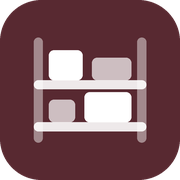
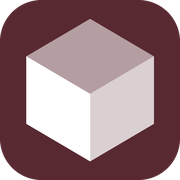
Marka işaretini izometrik küple kurumsallaştır
Önceki işaret yuvarlak kare bir kap içinde raf ve koli çizimiydi; uygulama
ikonu karakteri taşıdığı için kurumsal bir kimlikten çok bir mobil uygulama
rozeti gibi okunuyordu. Yerine, bir depo birimini (koli/palet) temsil eden
izometrik küp geldi: tek renkle çalışıp yalnızca yüz opaklıkları değiştiği için
16 piksellik favicon boyutunda da, kurumsal evrakta da bozulmadan kullanılıyor.

İşaretin rengi artık temadan geliyor; koyu temada marka rengi zemine karşı
okunmadığı için açık kontrast rengine geçiyor. Kelime logosunda işaret ile yazı
arasına ince bir ayraç kondu, WMS'in harf aralığı açıldı ve alt başlık daha
ince, daha seyrek bir tipografiye alındı.

Favicon, PWA ikonları ve apple-touch-icon yeni işaretle yeniden üretildi; bu
dosyalarda küp, sekmede ve uygulama listesinde okunur kalsın diye marka rengi
zemin üzerinde açık renkle çiziliyor.

diff --git a/src/components/Brand/BrandLogo.jsx b/src/components/Brand/BrandLogo.jsx
@@ -1,4 +1,4 @@
-import { Box, Stack, Typography } from '@mui/material'
+import { Box, Stack, Typography, useTheme } from '@mui/material'
 import BRAND from '../../config/brand'
 import BrandMark from './BrandMark'
 
@@ -9,6 +9,10 @@ import BrandMark from './BrandMark'
  * variant: 'full' isaret + yazi, 'mark' yalnizca isaret.
  */
 const BrandLogo = ({ variant = 'full', size = 40, showTagline = true, sx }) => {
+  const theme = useTheme()
+  const isDark = theme.palette.mode === 'dark'
+  const nameColor = isDark ? theme.palette.secondary.contrastText : theme.palette.primary.main
+
   if (BRAND.logoUrl) {
     return <Box component="img" src={BRAND.logoUrl} alt={BRAND.name} sx={{ height: size, width: 'auto', maxWidth: '100%', ...sx }} />
   }
@@ -21,35 +25,51 @@ const BrandLogo = ({ variant = 'full', size = 40, showTagline = true, sx }) => {
     )
   }
 
+  const withTagline = showTagline && Boolean(BRAND.tagline)
+
   return (
-    <Stack direction={'row'} alignItems={'center'} spacing={1.5} sx={sx}>
+    <Stack direction={'row'} alignItems={'center'} spacing={1.25} sx={sx}>
       <BrandMark size={size} />
+
+      {/* Isaret ile yaziyi ayiran ince kural: kilidi kurumsal bir butun yapar. */}
+      {withTagline && (
+        <Box
+          sx={{
+            width: '1px',
+            height: size * 0.72,
+            backgroundColor: isDark ? theme.palette.secondary.light : theme.palette.divider,
+            flexShrink: 0,
+          }}
+        />
+      )}
+
       <Box>
         <Typography
           component="span"
           sx={{
             display: 'block',
-            fontSize: size * 0.62,
-            lineHeight: 1.1,
+            fontSize: size * 0.58,
+            lineHeight: 1,
             fontWeight: 700,
-            letterSpacing: '0.08em',
-            color: 'primary.main',
+            letterSpacing: '0.1em',
+            color: nameColor,
           }}
         >
           {BRAND.name}
         </Typography>
-        {showTagline && BRAND.tagline && (
+        {withTagline && (
           <Typography
             component="span"
             sx={{
               display: 'block',
-              fontSize: Math.max(size * 0.22, 10),
+              fontSize: Math.max(size * 0.2, 9.5),
               lineHeight: 1.3,
               fontWeight: 500,
-              letterSpacing: '0.14em',
+              letterSpacing: '0.19em',
               textTransform: 'uppercase',
               color: 'text.secondary',
               whiteSpace: 'nowrap',
+              marginTop: '4px',
             }}
           >
             {BRAND.tagline}

diff --git a/src/components/Brand/BrandMark.jsx b/src/components/Brand/BrandMark.jsx
@@ -1,26 +1,25 @@
 import { useTheme } from '@mui/material'
 
 /**
- * Urunun vektorel marka isareti: raf gozlerine yerlesmis kolileri temsil eden
- * notr bir depo simgesi. Renkleri temadan aldigi icin acik/koyu modda ve
- * musteri temasi degistiginde ayrica bir gorsel uretmek gerekmez.
+ * Urunun vektorel marka isareti: bir depo birimini (koli/palet) temsil eden
+ * izometrik kup. Tek renkle calisir, sadece yuz opakliklari degisir; bu yuzden
+ * favicon boyutunda da, kurumsal evrakta da bozulmadan kullanilabilir.
+ *
+ * Renk temadan gelir: acik temada marka rengi, koyu temada zemine karsi okunur
+ * kalmasi icin acik kontrast rengi kullanilir. `color` verilirse o kazanir.
  */
-const BrandMark = ({ size = 40 }) => {
+const BrandMark = ({ size = 40, color }) => {
   const theme = useTheme()
+  const fill = color || (theme.palette.mode === 'dark' ? theme.palette.secondary.contrastText : theme.palette.primary.main)
 
   return (
-    <svg width={size} height={size} viewBox="0 0 48 48" role="img" aria-hidden="true" focusable="false">
-      <rect width="48" height="48" rx="11" fill={theme.palette.primary.main} />
-      <g fill={theme.palette.primary.contrastText}>
-        <rect x="9" y="10" width="2.4" height="28" rx="1.2" opacity="0.45" />
-        <rect x="36.6" y="10" width="2.4" height="28" rx="1.2" opacity="0.45" />
-        <rect x="9" y="21.4" width="30" height="2.4" rx="1.2" opacity="0.9" />
-        <rect x="9" y="32.6" width="30" height="2.4" rx="1.2" opacity="0.9" />
-        <rect x="13" y="13.4" width="9" height="8" rx="1.4" />
-        <rect x="24.5" y="15.4" width="10.5" height="6" rx="1.4" opacity="0.7" />
-        <rect x="13" y="26.6" width="7" height="6" rx="1.4" opacity="0.7" />
-        <rect x="22.5" y="24.6" width="12.5" height="8" rx="1.4" />
-      </g>
+    <svg width={size} height={size} viewBox="0 0 48 48" role="img" aria-hidden="true" focusable="false" style={{ display: 'block' }}>
+      {/* ust yuz */}
+      <path d="M24 5 L41 15 L24 25 L7 15 Z" fill={fill} opacity="0.55" />
+      {/* sol yuz */}
+      <path d="M7 15 L24 25 L24 43 L7 33 Z" fill={fill} />
+      {/* sag yuz */}
+      <path d="M41 15 L41 33 L24 43 L24 25 Z" fill={fill} opacity="0.78" />
     </svg>
   )
 }
